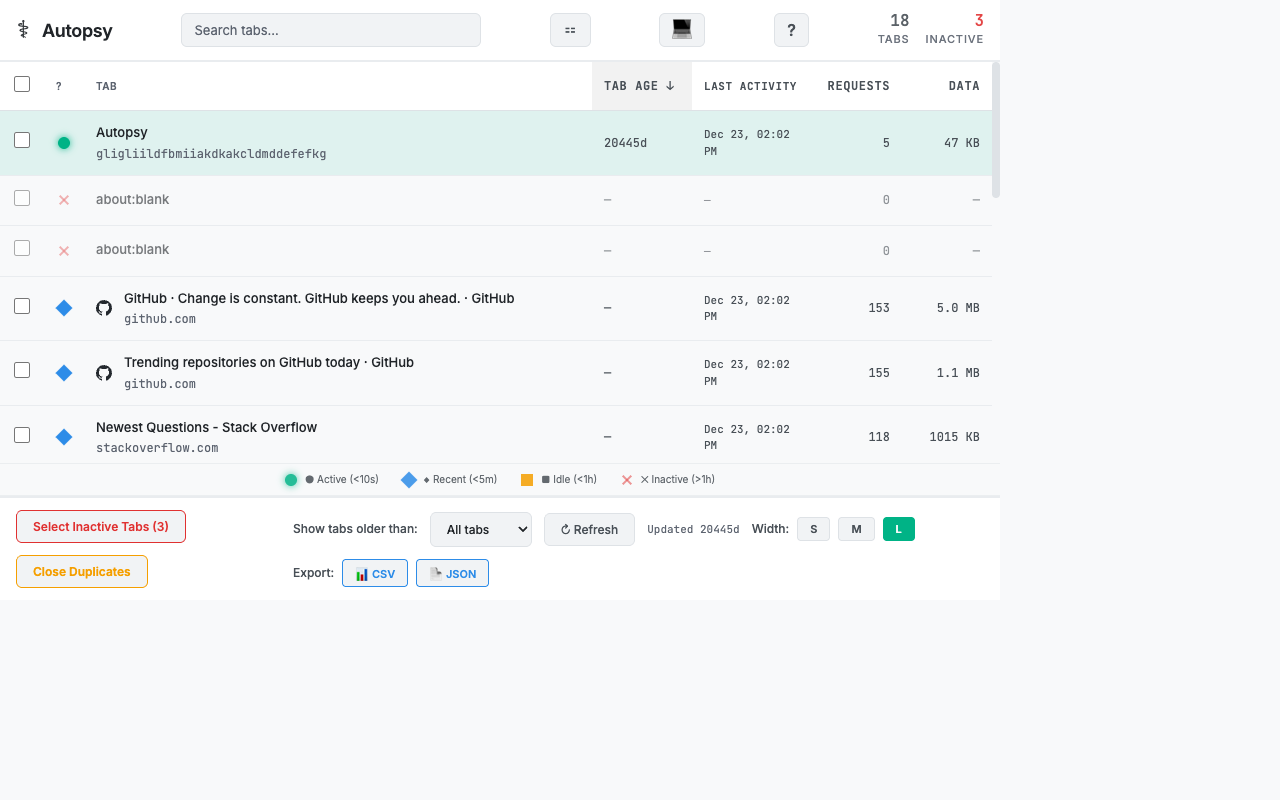
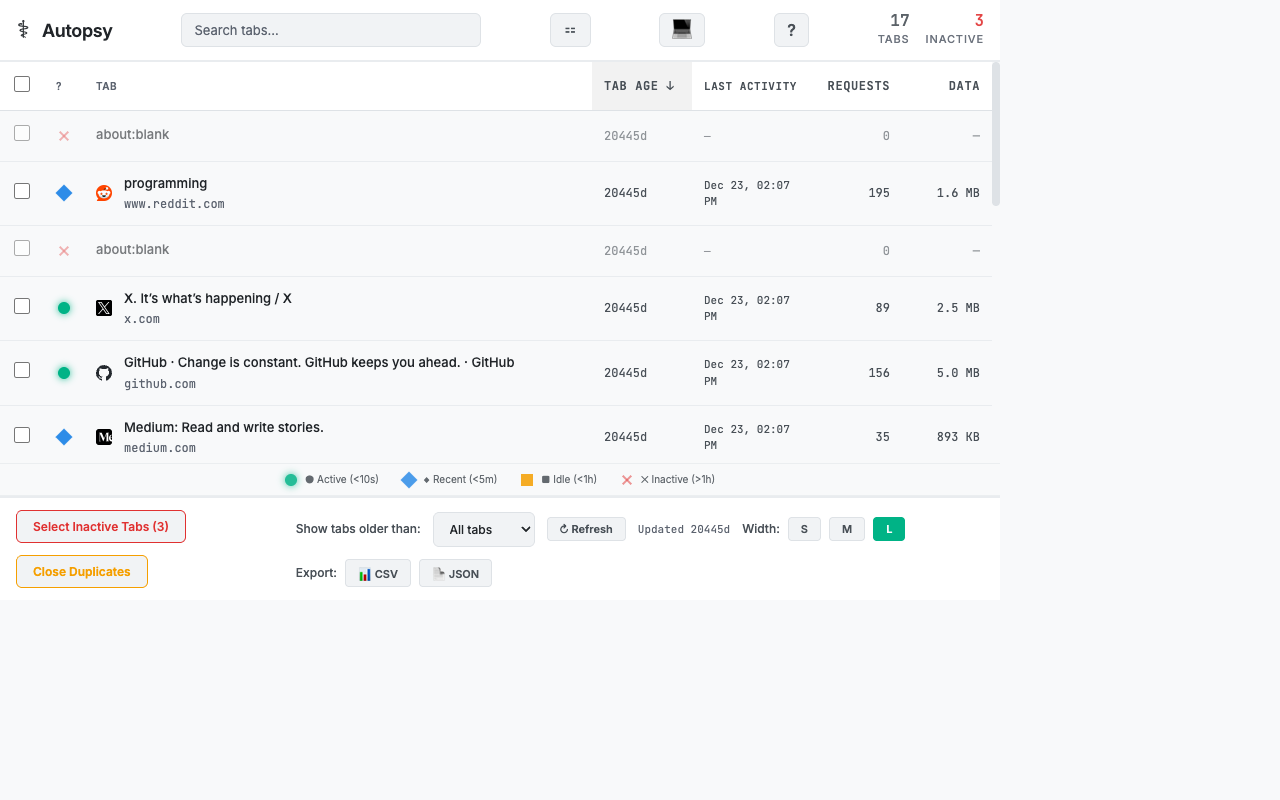
fix: Clean up UI and improve screenshot realism for v0.21.0
UI Improvements:
- Filter out chrome-extension:// and chrome:// URLs from tab list
- Autopsy popup no longer shows itself as a tab
- Standardized all footer button styling for consistency:
  - Unified padding, font size (11px), border radius (4px)
  - All buttons now match in height and visual weight
  - Export buttons (CSV/JSON) match width/refresh button styling
  - Improved min-width for better button proportions

Screenshot Improvements:
- Added realistic fake tab ages for variety:
  - Mix of 5m, 15m, 45m, 2h, 5h, 1d, 3d, 7d, 14d, 30d
  - Cycles through age pattern for natural distribution
  - No more unrealistic all-<1m ages
- Filters out extension pages from fake age assignment

All screenshots now show:
- No Autopsy popup in tab list
- Realistic tab age variety
- Consistent, professional footer button layout
- Clean, polished UI throughout

diff --git a/scripts/capture-screenshots.js b/scripts/capture-screenshots.js
@@ -137,6 +137,44 @@ async function main() {
   console.log('✓ Storage cleared');
   await wait(1000); // Wait for storage to clear
 
+  // Set realistic fake ages for variety in screenshots
+  console.log('📅 Setting realistic tab ages...');
+  const setupPage = await context.newPage();
+  await setupPage.goto(popupUrl);
+  await setupPage.evaluate(() => {
+    // Get all tabs and set varied ages
+    return chrome.tabs.query({}).then(tabs => {
+      const now = Date.now();
+      const ages = [
+        5 * 60 * 1000,        // 5 minutes
+        15 * 60 * 1000,       // 15 minutes
+        45 * 60 * 1000,       // 45 minutes
+        2 * 60 * 60 * 1000,   // 2 hours
+        5 * 60 * 60 * 1000,   // 5 hours
+        1 * 24 * 60 * 60 * 1000,    // 1 day
+        3 * 24 * 60 * 60 * 1000,    // 3 days
+        7 * 24 * 60 * 60 * 1000,    // 7 days
+        14 * 24 * 60 * 60 * 1000,   // 14 days
+        30 * 24 * 60 * 60 * 1000,   // 30 days
+      ];
+
+      const storageData = {};
+      tabs.forEach((tab, index) => {
+        if (tab.id && tab.url && !tab.url.startsWith('chrome-extension://')) {
+          // Assign varied ages in a cycling pattern
+          const ageOffset = ages[index % ages.length];
+          const created = now - ageOffset;
+          storageData[`tab_${tab.id}_created`] = created;
+        }
+      });
+
+      return chrome.storage.local.set(storageData);
+    });
+  });
+  await setupPage.close();
+  console.log('✓ Realistic ages set');
+  await wait(1000);
+
   // Screenshot 1: Main Interface
   console.log('\n📸 Screenshot 1: Main Interface...');
   const popup1 = await context.newPage();

diff --git a/src/popup.css b/src/popup.css
@@ -859,16 +859,17 @@ td {
 }
 
 .btn-refresh {
-  padding: var(--spacing-sm) var(--spacing-lg);
+  padding: var(--spacing-xs) var(--spacing-md);
   background: var(--bg-elevated);
   border: 1px solid var(--border-strong);
   color: var(--text-secondary);
-  border-radius: 6px;
-  font-size: 12px;
-  font-weight: 500;
+  border-radius: 4px;
+  font-size: 11px;
+  font-weight: 600;
   font-family: var(--font-ui);
   cursor: pointer;
   transition: all 0.15s ease;
+  white-space: nowrap;
 }
 
 .btn-refresh:hover {
@@ -910,7 +911,8 @@ td {
   font-family: var(--font-ui);
   cursor: pointer;
   transition: all 0.15s ease;
-  min-width: 28px;
+  white-space: nowrap;
+  min-width: 32px;
 }
 
 .btn-width:hover {
@@ -995,8 +997,8 @@ td {
 .btn-export {
   padding: var(--spacing-xs) var(--spacing-md);
   background: var(--bg-elevated);
-  border: 1px solid var(--status-recent);
-  color: var(--status-recent);
+  border: 1px solid var(--border-strong);
+  color: var(--text-secondary);
   border-radius: 4px;
   font-size: 11px;
   font-weight: 600;
@@ -1004,12 +1006,13 @@ td {
   cursor: pointer;
   transition: all 0.15s ease;
   white-space: nowrap;
+  min-width: 60px;
 }
 
 .btn-export:hover {
-  background: rgba(77, 166, 255, 0.1);
-  border-color: #6bb6ff;
-  color: #6bb6ff;
+  background: var(--hover-bg);
+  border-color: var(--text-muted);
+  color: var(--text-primary);
 }
 
 /* Undo Toast */

diff --git a/src/popup.tsx b/src/popup.tsx
@@ -238,6 +238,11 @@ export function App() {
   };
 
   const filteredTabs = tabs.filter(tab => {
+    // Filter out extension pages (including Autopsy itself)
+    if (tab.url.startsWith('chrome-extension://') || tab.url.startsWith('chrome://')) {
+      return false;
+    }
+
     // Age filter
     if (ageFilter > 0) {
       const age = tab.created ? Date.now() - tab.created : null;
